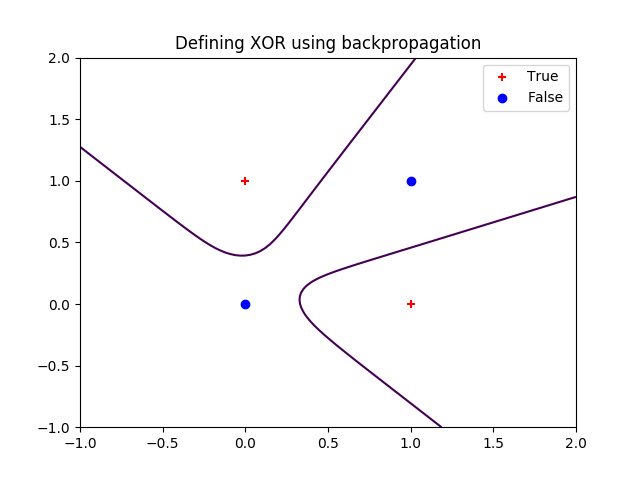
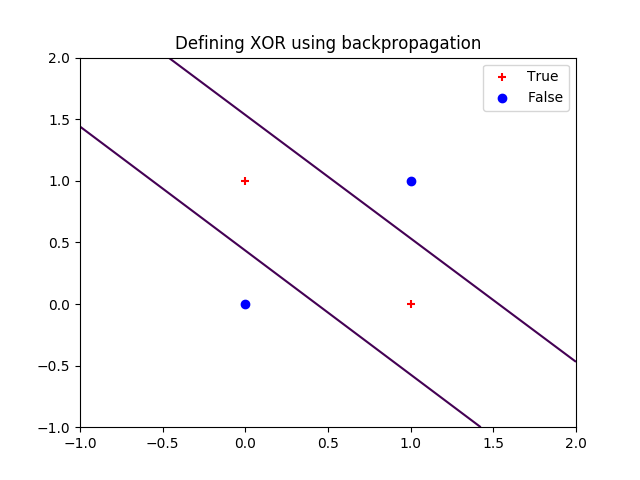
add an identity neuron to each layer;

diff --git a/multilayer_perceptron.py b/multilayer_perceptron.py
@@ -8,11 +8,13 @@ learning_rate = 1
 
 class multilayer_perceptron:
     def __init__(self, hidden_layers, neurons_per_layer):
-        self.w = np.random.rand(hidden_layers+1, neurons_per_layer, neurons_per_layer)
-        self.w[hidden_layers] = np.zeros([neurons_per_layer, neurons_per_layer])
-        self.w[hidden_layers][0] = np.random.rand(neurons_per_layer)
-        self.last_delta_w = np.zeros([hidden_layers+1, neurons_per_layer, neurons_per_layer])
-        self.o = np.zeros([hidden_layers+1, neurons_per_layer])
+        self.w = np.random.rand(hidden_layers+1, neurons_per_layer+1, neurons_per_layer+1)
+        self.w[hidden_layers] = np.zeros([neurons_per_layer+1, neurons_per_layer+1])
+        self.w[hidden_layers][1] = np.random.rand(neurons_per_layer+1)
+        self.last_delta_w = np.zeros([hidden_layers+1, neurons_per_layer+1, neurons_per_layer+1])
+        self.o = np.zeros([hidden_layers+1, neurons_per_layer+1])
+        for i in range(hidden_layers+1):
+            self.o[i][0] = 1
         self.sigma = self.o.copy()
         self.hidden_layers = hidden_layers
         self.neurons_per_layer = neurons_per_layer
@@ -27,20 +29,34 @@ class multilayer_perceptron:
         return s
 
     def sigmoid(self, v):
-        return 1 / (1+math.exp(-v))
+        try:
+            return 1 / (1+math.exp(-v))
+        except OverflowError:
+            if v > 0:
+                return 1
+            else:
+                return 0
 
     def predict(self, Xs, Ys):
         Z = np.zeros(Xs.shape)
         for i in range(Xs.shape[0]):
             for j in range(Xs.shape[1]):
-                value = self.forward([1, Xs[i,j], Ys[i, j]])
+                value = self.forward([Xs[i,j], Ys[i, j]])
                 Z[i,j] = value
         return Z
 
+    def extend_input_x(self, x):
+        extended_x = np.zeros(self.neurons_per_layer+1)
+        extended_x[0] = 1
+        input_n = len(x)
+        extended_x[1:input_n+1] = x
+        return extended_x
+
     def forward(self, x, debug = False):
+        extended_x = self.extend_input_x(x)
         for i in range(self.hidden_layers+1):
-            for j in range(self.neurons_per_layer):
-                if i == self.hidden_layers and j > 0:
+            for j in range(1, self.neurons_per_layer+1):
+                if i == self.hidden_layers and j > 1:
                     break
                 if i == 0:
                     if debug:
@@ -48,10 +64,10 @@ class multilayer_perceptron:
                         print('type of x,', type(x))
                         print('type of x[1],', type(x[1]))
                         print('x: ', x)
-                    self.o[i, j] = self.sigmoid(self.w[i, j].dot(x))
+                    self.o[i, j] = self.sigmoid(self.w[i, j].dot(extended_x))
                 else:
                     self.o[i, j] = self.sigmoid(self.w[i, j].dot(self.o[i-1]))
-        return self.o[self.hidden_layers, 0]
+        return self.o[self.hidden_layers, 1]
 
     def classify(self, x, debug=False):
         c = int(self.forward(x) > 0.5)
@@ -85,19 +101,21 @@ class multilayer_perceptron:
         for sample in range(n_samples):
             x = X[sample]
             y = Y[sample]
+            #extended_x = np.insert(x, 0, 1, axis=0) # add 1 as first element
+            extended_x = self.extend_input_x(x)
             f = self.forward(x)
             #e = 0.5*(y-f)**2
             for i in range(self.hidden_layers, -1, -1):
-                for j in range(self.neurons_per_layer):
-                    if i == self.hidden_layers and j > 0:
+                for j in range(1,self.neurons_per_layer+1):
+                    if i == self.hidden_layers and j > 1:
                         break
                     if i == self.hidden_layers:
                         self.sigma[i, j] = (self.o[i, j]-y)*self.o[i, j]*(1-self.o[i, j])
                     else:
                         self.sigma[i, j] = self.sigma[i+1].dot(self.w[i+1][:,j]) * self.o[i, j] * (1 - self.o[i, j])
-                    for k in range(self.neurons_per_layer):
+                    for k in range(self.neurons_per_layer+1):
                         if i == 0:
-                            self.last_delta_w[i, j, k] = inertia*self.last_delta_w[i, j, k] + (1-inertia)*learning_rate * x[k] * self.sigma[i, j]
+                            self.last_delta_w[i, j, k] = inertia*self.last_delta_w[i, j, k] + (1-inertia)*learning_rate * extended_x[k] * self.sigma[i, j]
                             self.w[i, j, k] -= self.last_delta_w[i, j, k]
                         else:
                             self.last_delta_w[i, j, k] = inertia*self.last_delta_w[i, j, k] + (1-inertia)*learning_rate * self.o[i-1, k] * self.sigma[i, j]

diff --git a/backpropagation_helloworld_xor.py b/backpropagation_helloworld_xor.py
@@ -25,9 +25,9 @@ print('learning_rate:', learning_rate)
 print('inertia:', inertia)
 mp = multilayer_perceptron(1, 3)
 for iteration in range(iterations):
-    mp.backpropagation(np.array([[1, 0, 0], [1, 0, 1], [1, 1, 1], [1, 1, 0]]), np.array([0, 1, 0, 1]), learning_rate)
+    mp.backpropagation(np.array([[0, 0], [0, 1], [1, 1], [1, 0]]), np.array([0, 1, 0, 1]), learning_rate)
 
-mp.test_accuracy(np.array([[1, 0, 0], [1, 0, 1], [1, 1, 1], [1, 1, 0]]), np.array([0, 1, 0, 1]), debug=True)
+mp.test_accuracy(np.array([[0, 0], [0, 1], [1, 1], [1, 0]]), np.array([0, 1, 0, 1]), debug=True)
 print(mp)
 visualize_xor(mp)
 #visualize_xor()

diff --git a/moon_backpropagation.py b/moon_backpropagation.py
@@ -73,8 +73,8 @@ def main():
     N = len(dataset)
     p = 3
     y = dataset[:,2:3]
-    X = np.append(np.ones([N, 1]), dataset[:,0:p-1], axis=1)
-    test_X = np.append(np.ones([len(test_ds), 1]), test_ds[:,0:p-1], axis=1)
+    X = dataset[:,0:p-1]
+    test_X = test_ds[:,0:p-1]
     test_y = test_ds[:,2:3]
     for iteration in range(iterations):
         mp.backpropagation(X, y, step_size)
